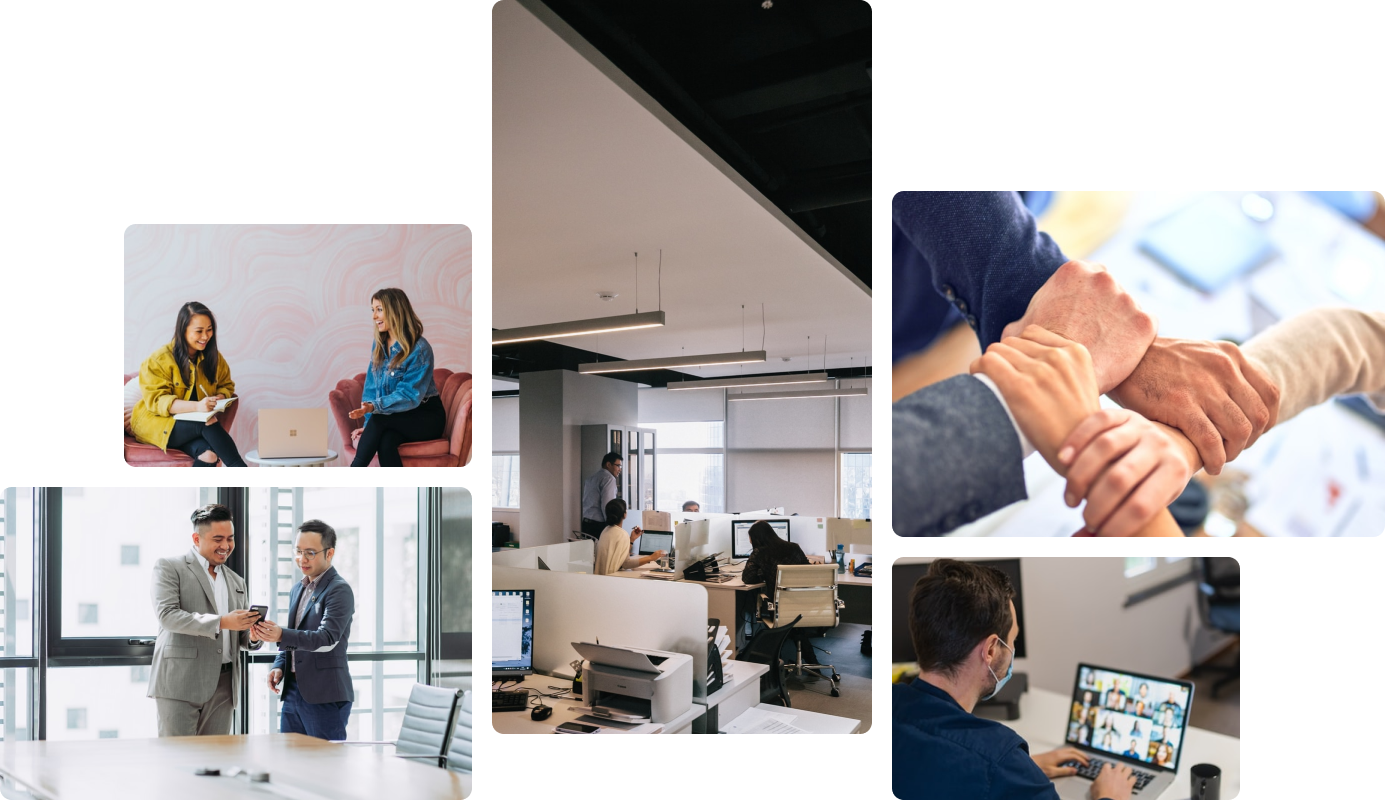
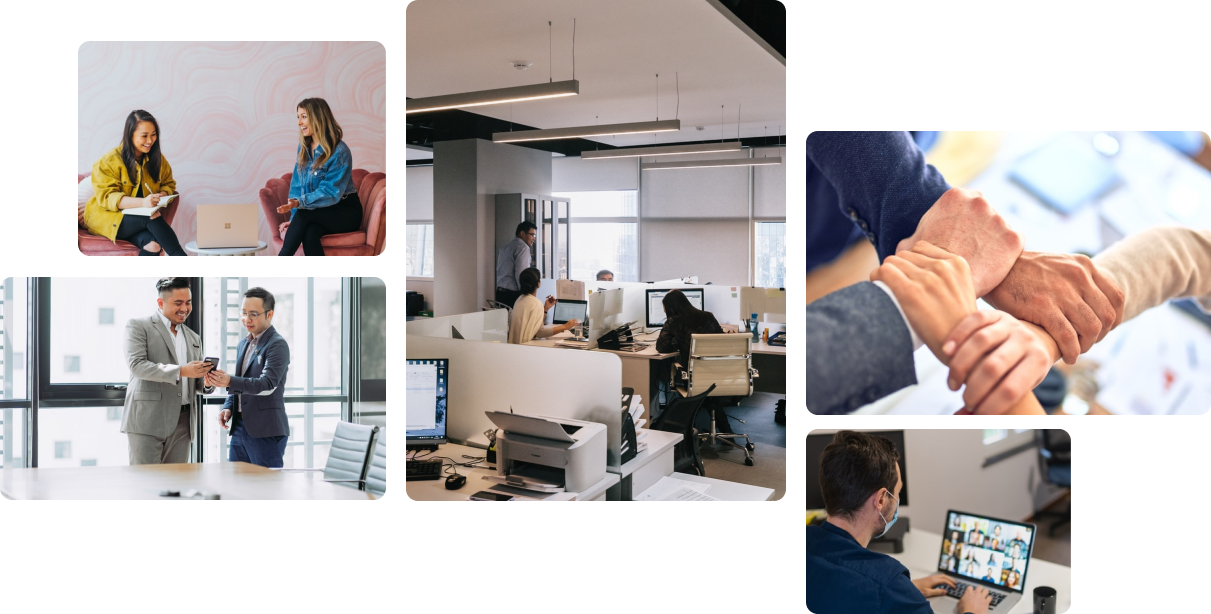
Design Fixes(Inner pages)

diff --git a/components/services/GDPRService.js b/components/services/GDPRService.js
@@ -78,7 +78,7 @@ const GDPRComponent = (props) => {
                                 </Button>
                             </div>
                         </Col>
-                        <Col lg={6} sm={12}>
+                        <Col lg={6} sm={12} className="my-auto">
                             <div className="nft-service-img-div">
                                {/* <Image src="../../public/assets/images/enterprise-blockchain-img.png" alt="..."></Image> */}
                                 <MyImage
@@ -99,11 +99,11 @@ const GDPRComponent = (props) => {
 
             {/*--------------- GDPR service  section2 start---------- */}
 
-            <section className="service-inner-section2 enterprise-section2">
+            <section className="service-inner-section2 enterprise-section2 bg-gradient-none">
                 <div className="section-glow-banner develop-hyperledger">
                     <Container>
                         <Row>
-                            <Col xl={{ span: 5, order: 0 }} lg={{ span: 6, order: 0 }} md={{ span: 12, order: 1 }} sm={{ span: 12, order: 1 }} xs={{ span: 12, order: 1 }}>
+                            <Col xl={{ span: 6, order: 0 }} lg={{ span: 6, order: 0 }} md={{ span: 12, order: 1 }} sm={{ span: 12, order: 1 }} xs={{ span: 12, order: 1 }}>
                                 <div className="next-generation-accordion floating-content">
                                     
                                     <h3>{t('gdprService.whatisGDPR')}</h3>
@@ -114,43 +114,19 @@ const GDPRComponent = (props) => {
                                 </div>
                             </Col>
 
-                            <Col xl={{ span: 7, order: 0 }} lg={{ span: 6, order: 0 }} md={{ span: 12, order: 0 }} sm={{ span: 12, order: 0 }} xs={{ span: 12, order: 0 }} className="banner-content">
+                            <Col xl={{ span: 6, order: 0 }} lg={{ span: 6, order: 0 }} md={{ span: 12, order: 0 }} sm={{ span: 12, order: 0 }} xs={{ span: 12, order: 0 }} className="banner-content my-auto">
                                 <h2 className="h2 mb-4">
                                     {t('gdprService.ourGDPRSolution')}
                                 </h2>
                                 <Paragraph>
                                     {t('gdprService.ourGDPRSolutionDesc')}
                                 </Paragraph>
-                                <div className="d-xl-none d-lg-block d-none mx-auto">
-                                    <MyImage
-                                        src={images.gdprImage}
-                                        rounded="true"
-                                        className="nft-service-img"
-                                        alt=" "
-                                        width={451}
-                                        height={348}
-                                    />
-                                </div>
+                            
                             </Col>
                            
                         </Row>
-                        <Row className="d-xl-flex d-lg-none">
-                            <Col xl={5} lg={6}>
-                                
-                            </Col>
-                            <Col xl={7} lg={6} className="what-hyperledger-img text-lg-start text-center">
-                                <MyImage
-                                    src={images.gdprImage}
-                                    rounded="true"
-                                    className="nft-service-img"
-                                    alt=" "
-                                    width={451}
-                                    height={348}
-                                />
-                            </Col>
-                        </Row>
-
                     </Container>
+                  
                 </div>
             </section>
 

diff --git a/styles/globals-responsive.scss b/styles/globals-responsive.scss
@@ -325,7 +325,7 @@
         height: 45px;
     }
     .enterprise-section1{
-        padding-bottom: 65px;
+        padding-bottom: 25px;
         .nft-service-img-div{
             text-align: center;
         }
@@ -648,6 +648,21 @@
     }
     .hero-banner-container .featured-box-container-new span br {
         display: none;
+    }
+    .gdpr-service .service-inner-section1 .nft-service-img-div{
+        bottom: unset;
+    }
+    .ui-path-service .nft-service-img-div {
+        position: unset;
+    }
+    .ui-path-service .enterprise-section1 {
+        padding-bottom: 30px;
+    }
+    .nft-wrapper .nft-service-img-div {
+        position: unset;
+    }
+    .gdpr-service .why-hyperledger {
+        padding-top: 30px;
     }
 }
 
@@ -1164,6 +1179,21 @@
     .getintouch-form .msg-field {
         height: 165px;
     }
+    .gdpr-service .service-inner-section1 .nft-service-img-div{
+        bottom: unset;
+    }
+    .ui-path-service .nft-service-img-div {
+        position: unset;
+    }
+    .ui-path-service .enterprise-section1 {
+        padding-bottom: 50px;
+    }
+    .nft-wrapper .nft-service-img-div {
+        position: unset;
+    }
+    .gdpr-service .why-hyperledger {
+        padding-top: 40px;
+    }
 }
 
 // Medium devices (tablets, 768px and up) /
@@ -1609,6 +1639,21 @@
             padding-right: 25px;
         }
     }
+    .gdpr-service .service-inner-section1 .nft-service-img-div{
+        bottom: unset;
+    }
+    .ui-path-service .nft-service-img-div {
+        position: unset;
+    }
+    .ui-path-service .enterprise-section1 {
+        padding-bottom: 50px;
+    }
+    .nft-wrapper .nft-service-img-div {
+        position: unset;
+    }
+    .gdpr-service .why-hyperledger {
+        padding-top: 40px;
+    }
 }
 
 // Large devices (desktops, 992px and up) /
@@ -1727,7 +1772,6 @@
     .develop-hyperledger {
         height: auto; //595px
         .floating-content {
-            height: 574px;     //changes on 20/1/22
             padding: 30px;
             margin-top: 30px;  //changes on 20/1/22
         } 
@@ -1760,12 +1804,7 @@
             font-size: 18px;
         }
     }
-    // gdpr changes
-    .gdpr-service{
-        .develop-hyperledger {
-            height: 675px;
-        }
-    }
+   
     // rpa changes
     .right-overlapped-content {
         padding-top: 120px;
@@ -1880,6 +1919,25 @@
             font-size: 18px;
         }
     }
+    .section-glow-banner .floating-content {
+        margin-top: -47px;
+    }
+
+    .gdpr-service .section-glow-banner {
+        min-height: 414px;
+    }
+    .ui-path-service .enterprise-section1 {
+        padding-bottom: 130px;
+    }
+    .ui-path-service .nft-service-img-div {
+        bottom: 0px;
+    }
+    .nft-wrapper .nft-service-img-div {
+        bottom: -136px;
+    }
+    .gdpr-service .why-hyperledger {
+        padding-top: 70px;
+    }
 }
 
 // Extra large devices (large desktops, 1200px and up) /
@@ -1930,7 +1988,7 @@
     .section-glow-banner {
         // height: 315px;
         .banner-content {
-            padding: 15px 0px 36px 55px;
+            padding: 15px 0px 23px 55px;
         }
     }
     // gdpr- changes
@@ -1971,6 +2029,19 @@
      // 20/1/22 changes
     .develop-hyperledger .what-hyperledger-img {
         margin-top: -360px;
+    }
+
+    .gdpr-service .section-glow-banner {
+        min-height: 404px;
+    }
+    .ui-path-service .enterprise-section1 {
+        padding-bottom: 130px;
+    }
+    .ui-path-service .nft-service-img-div {
+        bottom: -164px;
+    }
+    .nft-wrapper .nft-service-img-div {
+        bottom: -150px;
     }
 }
 

diff --git a/styles/globals.scss b/styles/globals.scss
@@ -1083,12 +1083,11 @@ button:focus {
 
 // ------------------NFT Services-section------------//
 .service-inner-section1 {
-    padding-top: 155px;
+    padding-top: 145px;
     padding-bottom: 65px;
     display: grid;
     place-items: center;
     .nft-service-img-div {
-        margin-bottom: -140px;
     }
     .nft-service-img {
         width: 100%;
@@ -1097,7 +1096,6 @@ button:focus {
 }
 .service-inner-section2 {
     @include gradient-background('gradient-primary-opacity');
-    margin-top: -40px;
 }
 .nft-page-footer {
     @include gradient-background('gradient-primary');
@@ -1476,7 +1474,7 @@ p.card-text.show-more {
         margin-bottom: 12px;
     }
     .floating-content{
-        margin-top: -87px;
+        margin-top: -81px;
         background-color: color('light-primary');
         padding: 45px 25px;
         box-shadow: 8px 8px 20px 0px rgba(138, 138, 138, 0.14);
@@ -1484,7 +1482,7 @@ p.card-text.show-more {
      }
      .banner-content{
         color: color('light-primary');
-        padding: 36px 0 36px 55px;
+        padding: 36px 0 5px 55px;
      }
 }
 
@@ -1831,7 +1829,7 @@ p.card-text.show-more {
 
 // 5/1/22  doc changes
 .blockchain-consulting-page .section-glow-banner{
-    height: 315px;
+    min-height: 315px;
 }
 .card-less{
     .card-text {
@@ -1967,4 +1965,35 @@ p.card-text.show-more {
     border-radius: 12px;
     padding: 40px 20px;
     margin-top: 80px;
+}
+.gdpr-service .service-inner-section1 .nft-service-img-div{
+    position: relative;
+    bottom: -125px;
+}
+
+.ui-path-service .nft-service-img-div{
+    position: relative;
+    bottom: -108px;
+}
+.ui-path-service .enterprise-section1{
+    padding-bottom: 100px;
+}
+.bg-gradient-none{
+    background: none;
+}
+.gdpr-service .section-glow-banner{
+    min-height: 344px;
+}
+.gdpr-service .why-hyperledger{
+    padding-top: 100px;
+}
+.nft-wrapper .nft-service-img-div {
+    position: relative;
+    bottom: -160px;
+}
+.blockchain-consulting-page .enterprise-section3 {
+    padding-top: 100px;
+}
+.gdpr-service .develop-hyperledger .floating-content{
+    height: auto;
 }

diff --git a/components/about/about-us.js b/components/about/about-us.js
@@ -95,9 +95,6 @@ const AboutUs = (props) => {
                                 <Paragraph>
                                     {t('aboutUs.headerVisions')}
                                 </Paragraph>
-                                <Paragraph>
-                                    {t('aboutUs.headerVisions1')}
-                                </Paragraph>
                             </div>
                         </Col>
                     </Row>
@@ -109,16 +106,16 @@ const AboutUs = (props) => {
             {/*--------------- about section1 section start ---------- */}
 
             <section className="about-section1 pb-xl-5 pb-md-4 pb-2">
-                <Container fluid className="pb-xl-5 pb-2">
-                    <Row className="pb-xl-5 pb-2">
-                        <Col className="pb-xl-5 pb-2 align-img">
+                <Container fluid className="">
+                    <Row className="">
+                        <Col className="align-img">
                             <MyImage
                                 src={images.aboutUs}
                                 alt=" "
                                 className="mx-auto about-section1-img"
                                 rounded="true"
-                                width={1385}
-                                height={800}
+                                width={1211}
+                                height={614}
                                 layout="responsive"
                                 objectPosition="center"
                             />

diff --git a/components/services/BlockchainConsulting.js b/components/services/BlockchainConsulting.js
@@ -111,8 +111,8 @@ const BlockchainConsultingComponent = (props) => {
                                     rounded="true"
                                     className="nft-service-img"
                                     alt=" "
-                                    width={778}
-                                    height={716}
+                                    width={767}
+                                    height={706}
                                 />
                             </div>
                         </Col>

diff --git a/pages/[lang]/services/uipath-consulting/index.js b/pages/[lang]/services/uipath-consulting/index.js
@@ -13,7 +13,7 @@ const RPAServices = (props) => {
         dispatch(servicesAction.fetchList());
     }, []);
     return (
-        <div className="nft-service-page hyperledger-service-page rpa-service">
+        <div className="nft-service-page hyperledger-service-page rpa-service ui-path-service">
             <Meta title={t('rpaService.uiPathConsulting')} desc="" />
 
             <RPAComponent language={props.language} />

diff --git a/pages/[lang]/services/nft-development/index.js b/pages/[lang]/services/nft-development/index.js
@@ -13,7 +13,7 @@ const NFTServices = (props) => {
         dispatch(servicesAction.fetchList());
     }, []);
     return (
-        <div className="nft-service-page">
+        <div className="nft-service-page nft-wrapper">
             <Meta title={t('nftDevelopement')} desc="" />
 
             <NFTSComponent language={props.language} />
